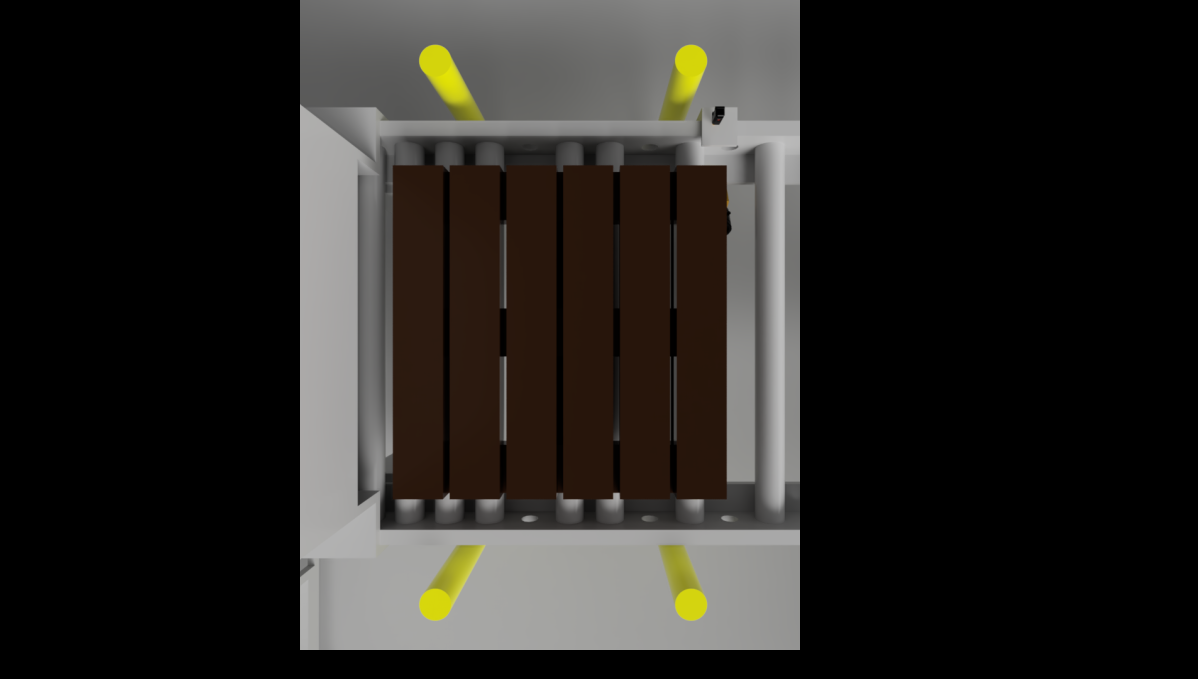
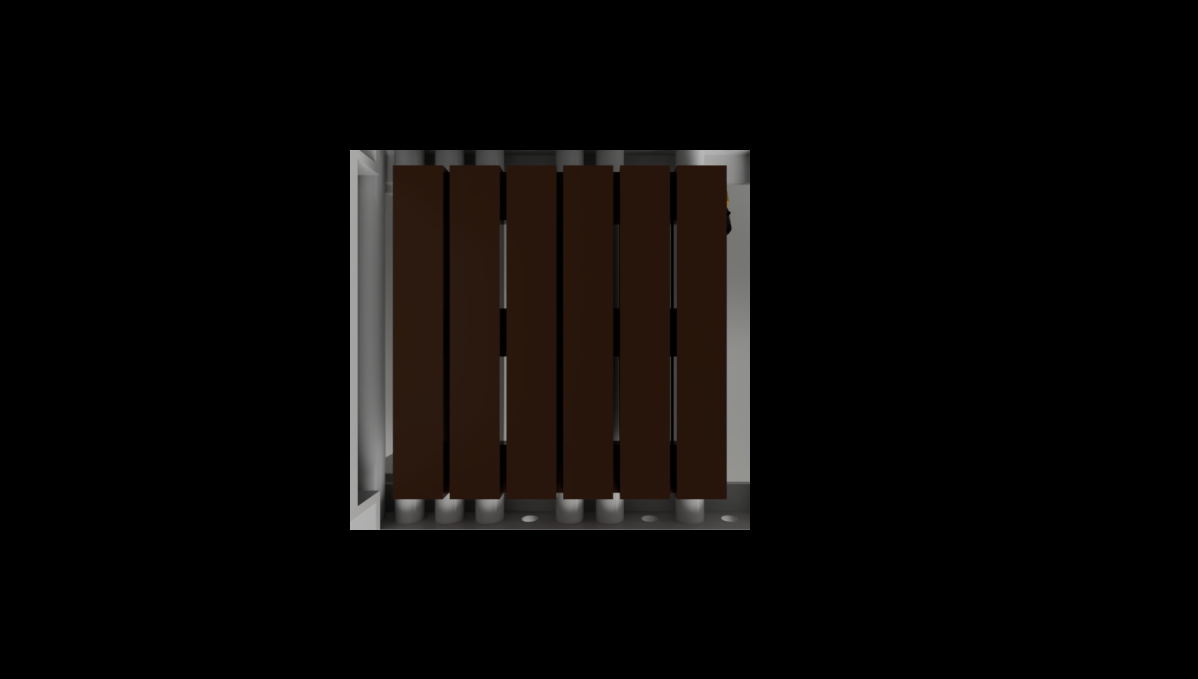
added a function

Changed region(s): [[0.2471, 0.0, 0.6795, 0.9588]]

diff --git a/CropModule/crop.py b/CropModule/crop.py
@@ -25,20 +25,20 @@ def enmascarar_con_fondo_blanco(imagen, bounding_box):
 
 # Ejemplo CROP:
 imagen = cv2.imread("test.png")
-bounding_box = (300, 0, 500, 650)
+bounding_box = (350, 150, 400, 380)
 imagen_recortada = recortar_imagen(imagen, bounding_box)
 cv2.imwrite("imagen_recortada.png", imagen_recortada)
 
 
 # Ejemplo MASCARA NEGRA:
 imagen = cv2.imread("test.png")
-bounding_box = (300, 0, 500, 650)
+bounding_box = (350, 150, 400, 380)
 imagen_enmascarada = enmascarar_imagen(imagen, bounding_box)
 cv2.imwrite("imagen_enmascarada.png", imagen_enmascarada)
 
 
 # Ejemplo MASCARA BLANCA:
 imagen = cv2.imread("test.png")
-bounding_box = (300, 0, 500, 650)
+bounding_box = (350, 150, 400, 380)
 imagen_blanca = enmascarar_con_fondo_blanco(imagen, bounding_box)
 cv2.imwrite("imagen_enmascarada_blanca.png", imagen_blanca)

diff --git a/CropModule/final_crop.py b/CropModule/final_crop.py
@@ -1,0 +1,6 @@
+import cv2
+
+def recortar_imagen(imagen, bounding_box):
+    x, y, w, h = bounding_box
+    imagen_recortada = imagen[y : y + h, x : x + w]
+    return imagen_recortada
